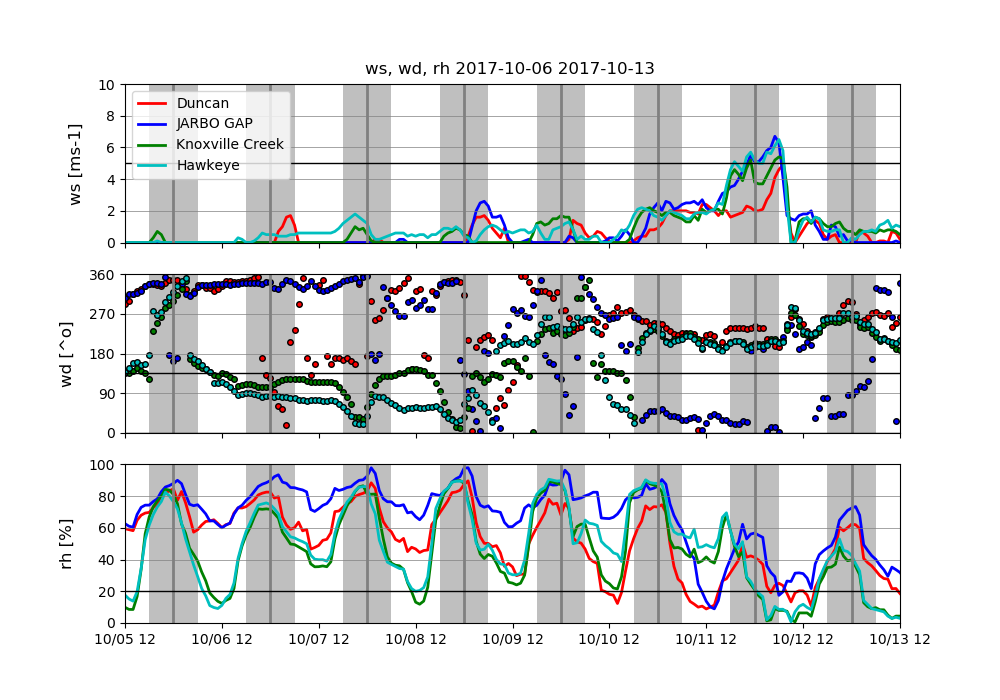
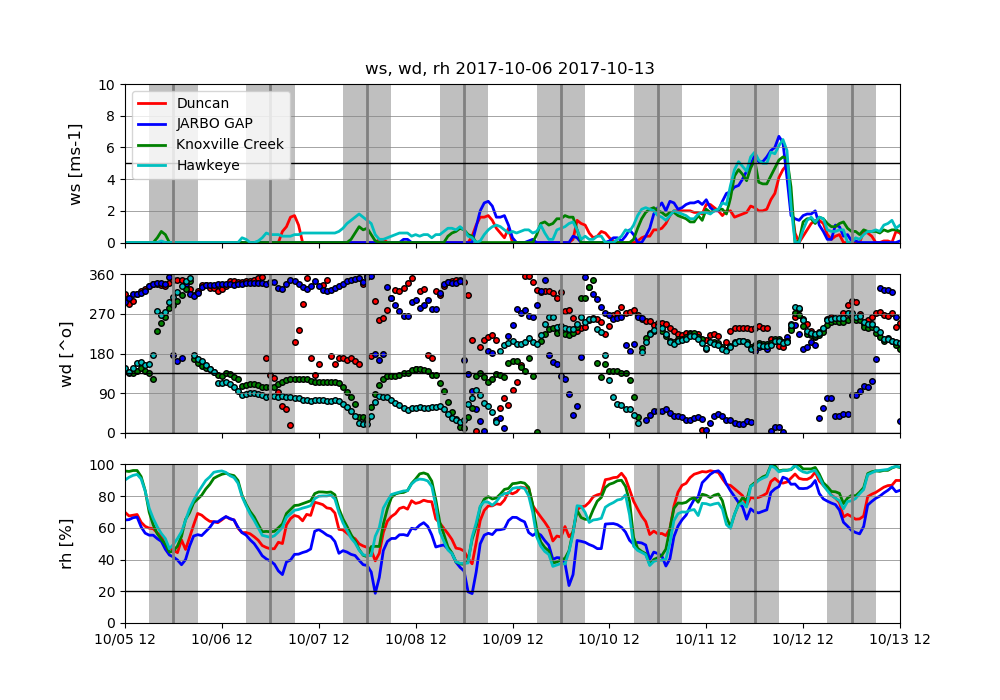
cleanup

diff --git a/process_offshore_hits.py b/process_offshore_hits.py
@@ -1,11 +1,4 @@
 
-from me - grab csv of station data from diablo_stations.csv 
-
-from john want
-wd, in addition to ws, or u_ws and v_ws
-rh, instead of t2 and td2
-
-
 ###############################################################################
 # process_offshore_hits.py
 # purpose: compute offshore wind events days in No CA 
@@ -63,29 +56,12 @@ dir_work = dir_scripts
 os.chdir(dir_scripts)
     
 sys.path.append(os.path.join(dir_scripts))
-sys.path.append(os.path.join(dir_base, 'scripts' ,'function_library'))
+#sys.path.append(os.path.join(dir_base, 'scripts' ,'function_library'))
 from define_daylight_savings_or_not   import define_daylight_savings_or_not
 from instantiate_logger               import instantiate_logger
 from define_datetime_axis import define_datetime_axis
 from read_stn_metadata_from_csv import read_stn_metadata_from_csv
 from map_stn_locations_to_grid_locations import map_stn_locations_to_grid_locations
-
-#from function_library import instantiate_logger 
-#from function_library import email_job_results 
-#from function_library import define_daylight_savings_or_not
-#from function_library import parse_firms_command_line_options
-#from function_library import datetime_round_down_to_start_of_day
-#from function_library import decompose_datetime_list
-#from function_library import read_firms_data
-
-#from function_library import read_wrf_profile_during_run
-#from function_library import read_sfc_obs_mesowest_api
-#from function_library import read_stn_metadata 
-#from function_library import datematch_two_timeseries 
-#from function_library import datematch_two_timeseries_multidimensional
-#from function_library import convert_vel_to_dir
-#from function_library import decompose_datetime_list
-#from function_library import calc_skill
 
 # module import and set paths
 ###############################################################################
@@ -110,7 +86,6 @@ print      ('define_cron_start_time ')
 dt_cron_start_utc = dt.utcnow()    
 dt_cron_start_lt = dt.now() # cluster time is LST 
           
-
 # define starting time 
 ###############################################################################
 
@@ -131,11 +106,6 @@ logger = instantiate_logger(log_name, dt_cron_start_lt)
 # instantiate logger 
 ###############################################################################
 
-# instantiate logger 
-###############################################################################
-
-
-
 
 ###############################################################################
 # plot_time_series
@@ -145,10 +115,19 @@ plot_time_series = True
 if (plot_time_series):
 
     file_name_base = 'era5_canv_'
-    #yy_new = 2011    
+    #yy_new = 2011
+    #dt_min_plot = dt(2011, 11, 25)
+    #dt_max_plot = dt(2011, 12,  6)
     #yy_new = 2013    
+    #dt_min_plot = dt(2013, 11, 20)
+    #dt_max_plot = dt(2013, 11, 30)
     #yy_new = 2017    
-    yy_new = 2018    
+    #dt_min_plot = dt(2017, 10, 6)
+    #dt_max_plot = dt(2017, 10, 13)
+    yy_new = 2018   
+    dt_min_plot = dt(2018, 11, 5)
+    dt_max_plot = dt(2018, 11, 16)
+    
     file_name_tair = os.path.join(dir_data, file_name_base+'tair_'+str(yy_new)+'.nc')
     file_name_tdew = os.path.join(dir_data, file_name_base+'tdew_'+str(yy_new)+'.nc')
     file_name_ws   = os.path.join(dir_data, file_name_base+'vs_'+str(yy_new)+'.nc')
@@ -186,20 +165,26 @@ if (plot_time_series):
     
     hr_read = numpy.array(ncfile_read['day'])
     numpy.shape(hr_read)
-    hr_read = hr_read - hr_read[0]
     n_hrs = len(hr_read)
+    # hours since 1900-01-01
+    #hr_read = hr_read - hr_read[0]
     dt_hr_utc = numpy.full([n_hrs], numpy.nan, dtype=object)
-    dt_hr_utc[0] = dt(yy_new, 1, 1, 0, 0, 0)
+    #dt_hr_utc[0] = dt(yy_new, 1, 1, 0, 0, 0)
+    #for hr in range(0, n_hrs, 1):
+    #    dt_hr_utc[hr] = dt_hr_utc[0] + td(hours=hr)
     for hr in range(0, n_hrs, 1):
-        dt_hr_utc[hr] = dt_hr_utc[0] + td(hours=hr)
+        dt_hr_utc[hr] = dt(1900, 1, 1) + td(hours=hr_read[hr])
     dt_hr_pst = dt_hr_utc - td(utc_conversion)
         
     ncfile_read.close()
     
     # compute rh
-    es_hr_2d = 6.11*10.0**((7.5* t2_hr_2d)/(237.7+ t2_hr_2d))
-    e_hr_2d  = 6.11*10.0**((7.5*td2_hr_2d)/(237.7+td2_hr_2d))
-    rh2_hr_2d = 100.0*(e_hr_2d/es_hr_2d)
+    es_hr_2d = 6.11*numpy.exp((7.5* t2_hr_2d)/(237.7+ t2_hr_2d))
+    e_hr_2d  = 6.11*numpy.exp((7.5*td2_hr_2d)/(237.7+td2_hr_2d))
+    rh2_hr_2d = 100.0 - 100.0*(e_hr_2d/es_hr_2d)
+    #es_hr_2d  = 6.11*10.0**((7.5* t2_hr_2d)/(237.7+ t2_hr_2d))
+    #e_hr_2d = 6.11*10.0**((7.5*td2_hr_2d)/(237.7+td2_hr_2d))
+    #rh2_hr_2d = 100.0 - 100.0*(e_hr_2d/es_hr_2d)
     del es_hr_2d, e_hr_2d
 
     
@@ -214,32 +199,19 @@ if (plot_time_series):
     print_flag = True
     (j_loc_s, i_loc_s) = map_stn_locations_to_grid_locations(logger, dict_stn_metadata, lon_2d, lat_2d, print_flag)
 
-    ws10_hr_s = ws10_hr_2d[:,i_loc_s,j_loc_s]
-    wd10_hr_s = wd10_hr_2d[:,i_loc_s,j_loc_s]
-    rh2_hr_s  = rh2_hr_2d [:,i_loc_s,j_loc_s]
-    #ws10_hr_s = ws10_hr_2d[:,j_loc_s,i_loc_s]
-    #wd10_hr_s = wd10_hr_2d[:,j_loc_s,i_loc_s]
-    #rh2_hr_s  = rh2_hr_2d [:,j_loc_s,i_loc_s]
+    #ws10_hr_s = ws10_hr_2d[:,i_loc_s,j_loc_s]
+    #wd10_hr_s = wd10_hr_2d[:,i_loc_s,j_loc_s]
+    #rh2_hr_s  = rh2_hr_2d [:,i_loc_s,j_loc_s]
+    ws10_hr_s = ws10_hr_2d[:,j_loc_s,i_loc_s]
+    wd10_hr_s = wd10_hr_2d[:,j_loc_s,i_loc_s]
+    rh2_hr_s  = rh2_hr_2d [:,j_loc_s,i_loc_s]
     
     
-
-
-
-    #dt_min_plot = dt(2011, 11, 25)
-    #dt_max_plot = dt(2011, 12,  6)
-    #dt_min_plot = dt(2013, 11, 20)
-    #dt_max_plot = dt(2013, 11, 30)
-    #dt_min_plot = dt(2017, 10, 6)
-    #dt_max_plot = dt(2017, 10, 13)
-    dt_min_plot = dt(2018, 11, 1)
-    dt_max_plot = dt(2018, 11, 15)
     
     
     n_days_temp = (dt_max_plot - dt_min_plot).days 
-    
     delta = td(hours=24)
     delta_lines = td(hours=24)
-    
     datetick_format = '%m/%d %H'    
     #datetick_format = '%H'    
     #if (date_temp.hour  == 0):
@@ -282,7 +254,7 @@ if (plot_time_series):
     
     ##############################################
     # ws bay, ws sierra, rh bay rh sierra all stns  
-    fig_num = 151
+    fig_num = 152
     fig = plt.figure(num=fig_num,figsize=(10,7)) # 10,10 
     plt.clf()
     
